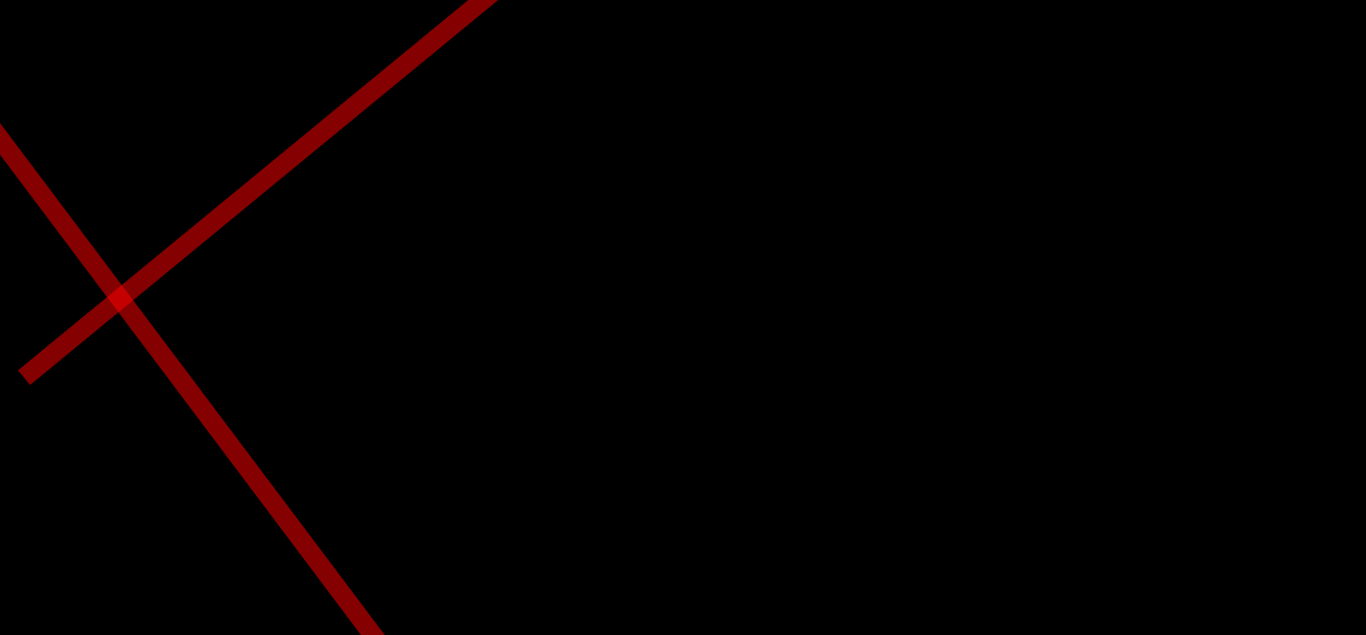
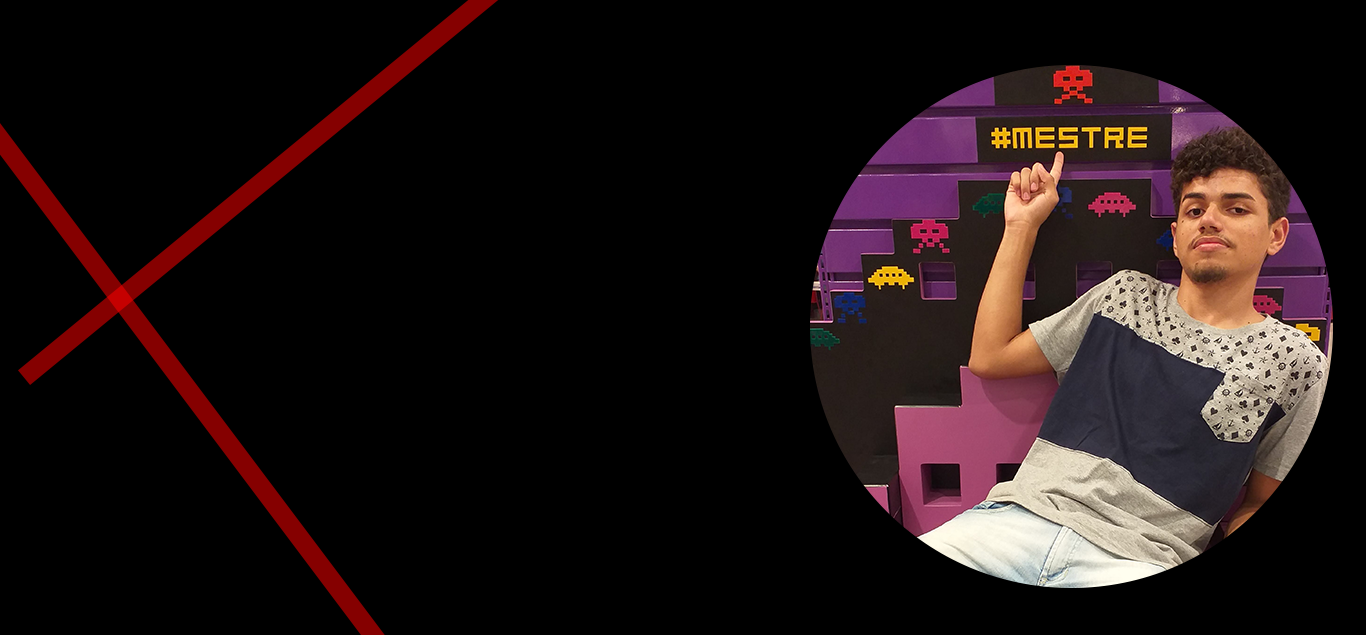
feat: About Section

Changed region(s): [[0.5842, 0.0898, 0.9839, 0.9276]]

diff --git a/style.css b/style.css
@@ -16,6 +16,7 @@
     position: fixed;
     width: 100%;
     padding: 30px 0;
+    z-index: 999;
     /* background: crimson; */
     font-family: 'Ubuntu', sans-serif;
     transition: all 0.3s ease;
@@ -112,6 +113,79 @@
     color: #fff;
     background: none;
 }
+
+  /* about section styling */
+  section{
+      padding: 100px 0;
+  }
+.about{
+    font-family: 'Poppins', sans-serif;
+}
+
+.about .title{
+    position: relative;
+    text-align: center;
+    font-size: 40px;
+    font-weight: 500;
+    margin-bottom: 60px;
+    padding-bottom: 20px;
+    font-family: 'Ubuntu', sans-serif;
+}
+.about .title::before{
+    content: "";
+    position: absolute;
+    bottom: 0px;
+    left: 50%;
+    width: 180px;
+    height: 3px;
+    background: #111;
+    transform: translateX(-50%);
+}
+.about .title::after{
+    content: "who i am";
+    position: absolute;
+    bottom: -12px;
+    left: 50%;
+    font-size: 20px;
+    color: crimson;
+    padding: 5px;
+    background: #fff;
+    transform: translateX(-50%);
+}
+.about .about-content{
+    display: flex;
+    flex-wrap: wrap;
+    align-items: center;
+    justify-content: space-between
+}
+.about .about-content .left{
+    width: 45%;
+}
+.about .about-content .left img{
+    height: 400px;
+    width: 400px;
+    object-fit: cover;
+    border-radius: 6px;
+}
+.about .about-content .right{
+    width: 55%;
+}
+.about .about-content .right .text{
+    font-size: 25px;
+    font-weight: 600;
+    margin-bottom: 10px;
+}
+.about .about-content .right .text span{
+    color: crimson;
+}
+.about .about-content .right p{
+    text-align: justify;
+}
+.about .about-content .right a{
+    text-align: justify;
+}
+
+
 
 /* responsive media query start */
 @media (max-width: 1104px){

diff --git a/index.html b/index.html
@@ -40,7 +40,23 @@
         </div>
     </section>
 
-    <p>Lorem Ipsum is simply dummy text of the printing and typesetting industry. Lorem Ipsum has been the industry's standard dummy text ever since the 1500s, when an unknown printer took a galley of type and scrambled it to make a type specimen book. It has survived not only five centuries, but also the leap into electronic typesetting, remaining essentially unchanged. It was popularised in the 1960s with the release of Letraset sheets containing Lorem Ipsum passages, and more recently with desktop publishing software like Aldus PageMaker including versions of Lorem Ipsum.</p>
+    <!-- about secction start -->
+    <section class="about" id="about">
+        <div class="max-width">
+            <h2 class="title">About me </h2>
+            <div class="about-content">
+               <div class="colum left">
+                   <img src="./img/person.png" alt="">
+               </div>
+               <div class="column right">
+                   <div class="text">I'm Helder and I'm a <span>Programer</span></div>
+                   <p>Lorem ipsum dolor sit amet consectetur adipisicing elit. Eius aliquid nesciunt in aperiam. Odit, omnis sint? Corrupti enim odit dolorem voluptates nisi molestiae aut ab vitae soluta praesentium exercitationem illo, eligendi vel! Perferendis eveniet facilis, aspernatur cumque animi alias possimus soluta nam placeat ex rem, obcaecati quas porro nemo quod facere voluptatum debitis aut excepturi architecto dolore. Expedita, harum aut!</p>
+                    <a href="#">Dowload CV</a>
+                </div>
+            </div>
+        </div>
+    </section>
+
     <script src="script.js"></script>
 </body>
 </html>
